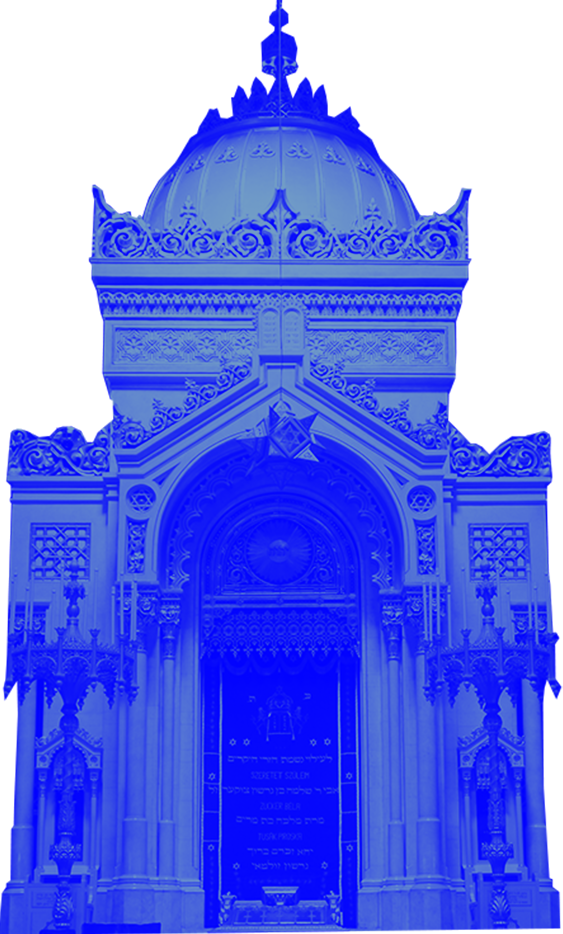
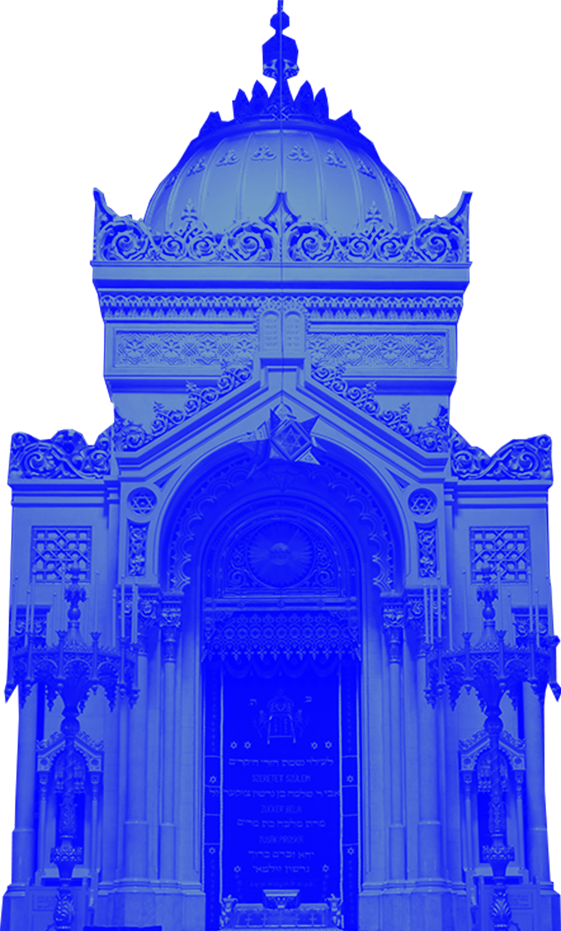
update3

diff --git a/christian.html b/christian.html
@@ -20,32 +20,32 @@
     </div>
 
     <div class="popup popup-church">
-      <p class="eng">confession</p>
+      <p class="eng">The Confessional is a box cabinet or stall in which the priest sits to hear the confessions of penitents.</p>
     </div>
 
 
     <div class="popup popup-church1">
-      <p class="eng"> jesus</p>
+      <p class="eng"> The crucifix emphasizes Jesus' sacrifice—his death by crucifixion, which Christians believe brought about the redemption of mankind.</p>
     </div>
 
     <div class="popup popup-church2">
-      <p class="eng"> A vessel used for baptism ceremonies. Fonts hold consecrated water used in the baptism of newcomers to the Christian church.</p>
+      <p class="eng"> Fonts hold consecrated water used in the baptism of newcomers to the Christian church.</p>
     </div>
 
     <div class="popup popup-church3">
-      <p class="eng">necklace.</p>
+      <p class="eng">Crosses are often worn as an indication of commitment to the Christian faith, and are received as gifts for rites such as baptism and confirmation.</p>
     </div>
 
     <div class="popup popup-church5">
-      <p class="eng"> Sacramental bread, sometimes called the Lamb, Host or simply Communion Bread, is the bread which is used in the Christian ritual of the Eucharist.</p>
+      <p class="eng"> Sacramental bread, sometimes called the Lamb or Communion Bread, is the bread which is used in the Christian ritual of the Eucharist.</p>
     </div>
 
     <div class="popup popup-church6">
-      <p class="eng"> The candle symbolizes light in the darkness of life especially individual life, illlumination; it is the symbol of holy illumination of the spirit of truth</p>
+      <p class="eng"> The candle is commonly used in worship both for decoration and ambiance, and as a symbol that represents the light of God or, the light of Christ.</p>
     </div>
 
     <div class="popup popup-church7">
-      <p class="eng"> glas painting</p>
+      <p class="eng">Stained glass represent the Light of God in the church and the often depict elaborate scenes from the bible.</p>
     </div>
 
 

diff --git a/syn.html b/syn.html
@@ -50,7 +50,7 @@
 
     <div class="popup popup-syn7">
       <p class="eng">The podium or platform in a synagogue from which the Torah and Prophets are read.</p>
-      <p class="hind">הדוכן או הרציף בבית הכנסת ממנו קוראים את התורה והנביאים</p>
+      <p class="heb">הדוכן או הרציף בבית הכנסת ממנו קוראים את התורה והנביאים</p>
     </div>
 
 
@@ -60,7 +60,7 @@
     <div class="syn2"><img src='images/syn/syn2.png' alt="menorah" width="600" height="580" onmouseover="this.src='images/syn/syn2.2.png';" onmouseout="this.src='images/syn/syn2.png';" />
     </div>
 
-    <div class="syn3"><img src='images/syn/syn3.png' alt="light" width="430" height="550" onmouseover="this.src='images/syn/syn3.3.png';" onmouseout="this.src='images/syn/syn3.png';" />
+    <div class="syn3"><img src='images/syn/syn3.png' alt="light" width="400" height="550" onmouseover="this.src='images/syn/syn3.3.png';" onmouseout="this.src='images/syn/syn3.png';" />
     </div>
 
     <div class="syn4"><img src='images/syn/syn4.png' alt="cloth" width="350" height="450" onmouseover="this.src='images/syn/syn4.4.png';" onmouseout="this.src='images/syn/syn4.png';" />

diff --git a/hindu.html b/hindu.html
@@ -75,7 +75,7 @@
       <p class="hind">आरती पूजा का एक हिंदू धार्मिक अनुष्ठान है, पूजा का एक हिस्सा है, जिसमें प्रकाश (आमतौर पर एक लौ से) एक या एक से अधिक देवताओं को चढ़ाया जाता है</p>
     </div>
 
-    <div class="hindu1"><img src='images/hindu/hindu1.png' alt="idol" width="384" height="497" onmouseover="this.src='images/hindu/hindu1.1.png';" onmouseout="this.src='images/hindu/hindu1.png';" />
+    <div class="hindu1"><img src='images/hindu/hindu1.png' alt="idol" width="364" height="497" onmouseover="this.src='images/hindu/hindu1.1.png';" onmouseout="this.src='images/hindu/hindu1.png';" />
     </div>
 
     <div class="hindu2"><img src='images/hindu/hindu2.png' alt="hands" width="430" height="547" onmouseover="this.src='images/hindu/hindu2.1.png';" onmouseout="this.src='images/hindu/hindu2.png';" />

diff --git a/contribute.html b/contribute.html
@@ -26,7 +26,7 @@
     <div class="h2-title">Contribute </div>
     <div class="text-box">
       <p>The Sanctum can only work as a collaborative effort and is dependent on
-        the help of followers of different religion who frequent places of worship to ensure the accuracy and correct representation of the content included. To make changes or correct the ontent on an existing page, send a request here. To contribute images and text pertaining to your religion, add files down below.
+the help of followers of different religion who frequent places of worship to ensure the accuracy and correct representation of the content included. To make changes or correct the ontent on an existing page, send a request here. To contribute images and text pertaining to your religion, add files down below.
 
       </p>
     </div>

diff --git a/church.css b/church.css
@@ -7,6 +7,7 @@
   display: none;
 }
 
+
 .eng {
   z-index: 100;
   font-family: 'IBM Plex Sans';
@@ -28,10 +29,9 @@
   display: none;
 }
 
-.popup-church, .popup-church2, .popup-church3, .popup-church4,.popup-church5, .popup-church6, .popup-church7{
+.popup-church, .popup-church1, .popup-church2, .popup-church3, .popup-church4,.popup-church5, .popup-church6, .popup-church7{
   position: absolute;
   left: 50px;
-  margin-top: 4vw;
   top: 4vw;
   padding: 10px;
   z-index: 2;
@@ -170,7 +170,7 @@ a:visited {
   position: absolute;
   z-index: 0;
   left: 900px;
-  top: 174px;
+  top: 104px;
 }
 
 .church6 {

diff --git a/syn.css b/syn.css
@@ -163,8 +163,8 @@ a:visited {
 .syn3 {
   /* light */
   position: absolute;
-  left: -20px;
-  top: -110px;
+  left: -0px;
+  top: -120px;
 }
 
 .syn4 {
